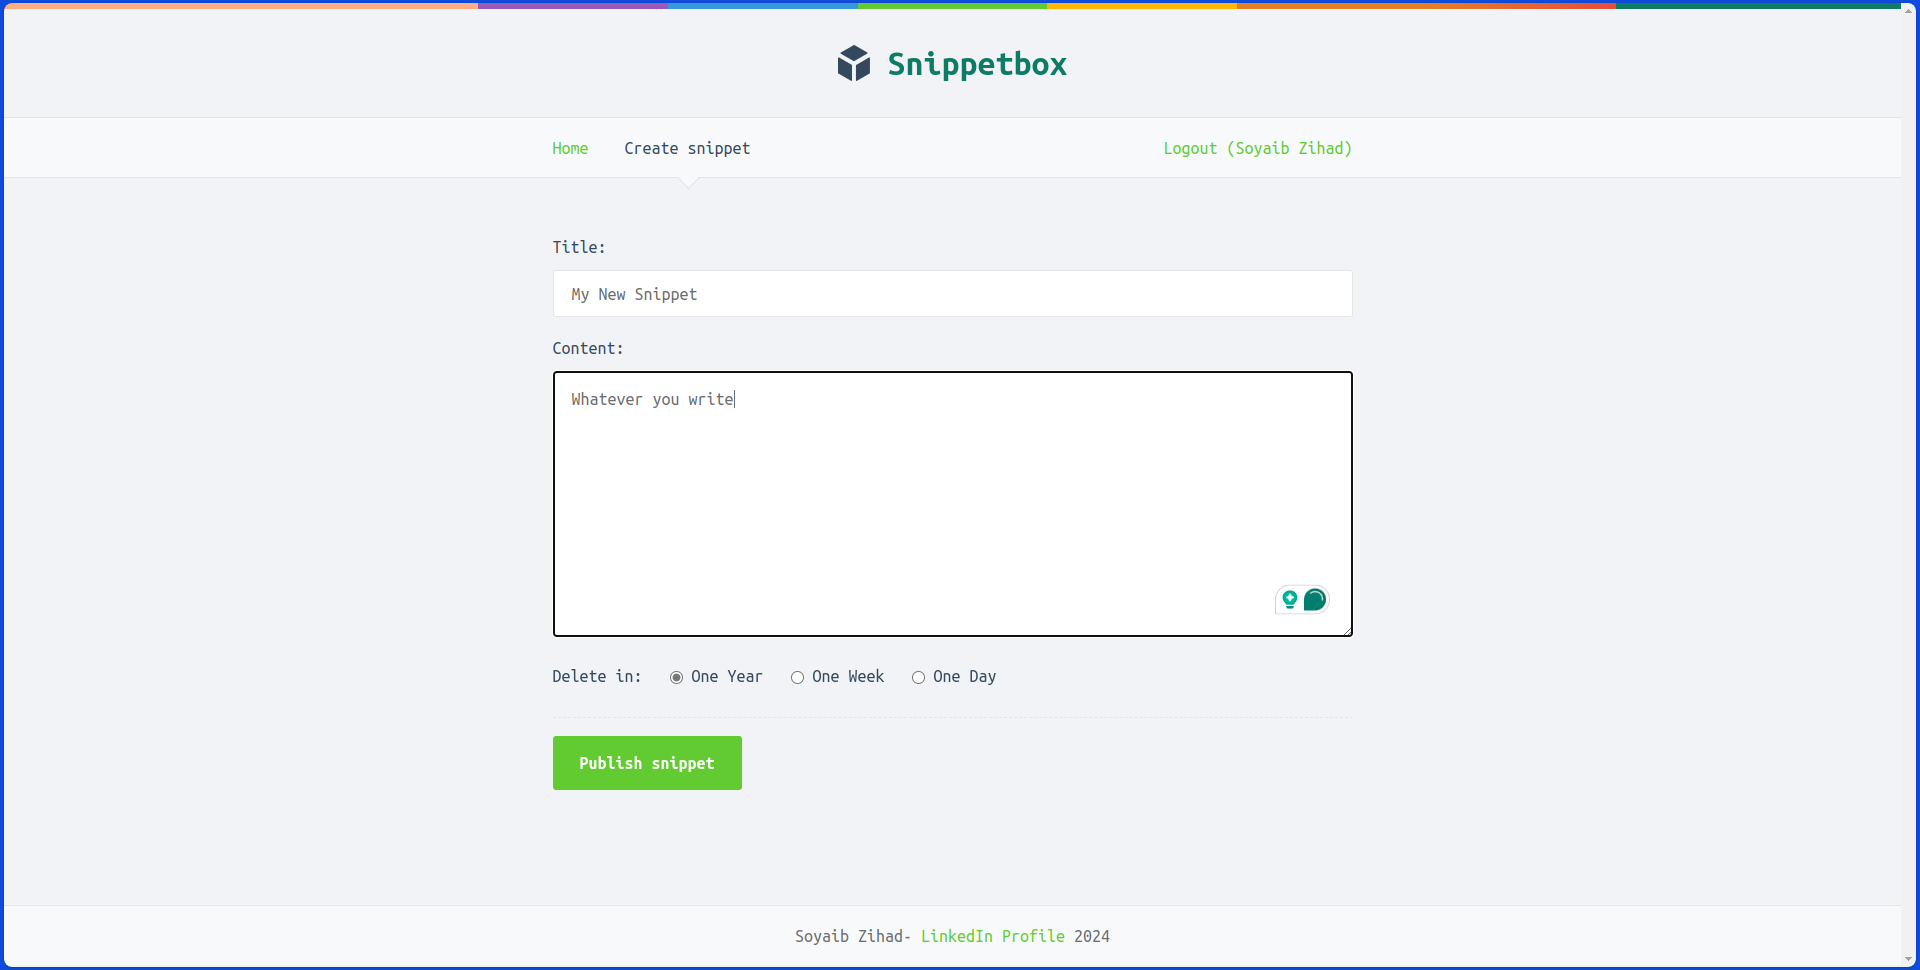
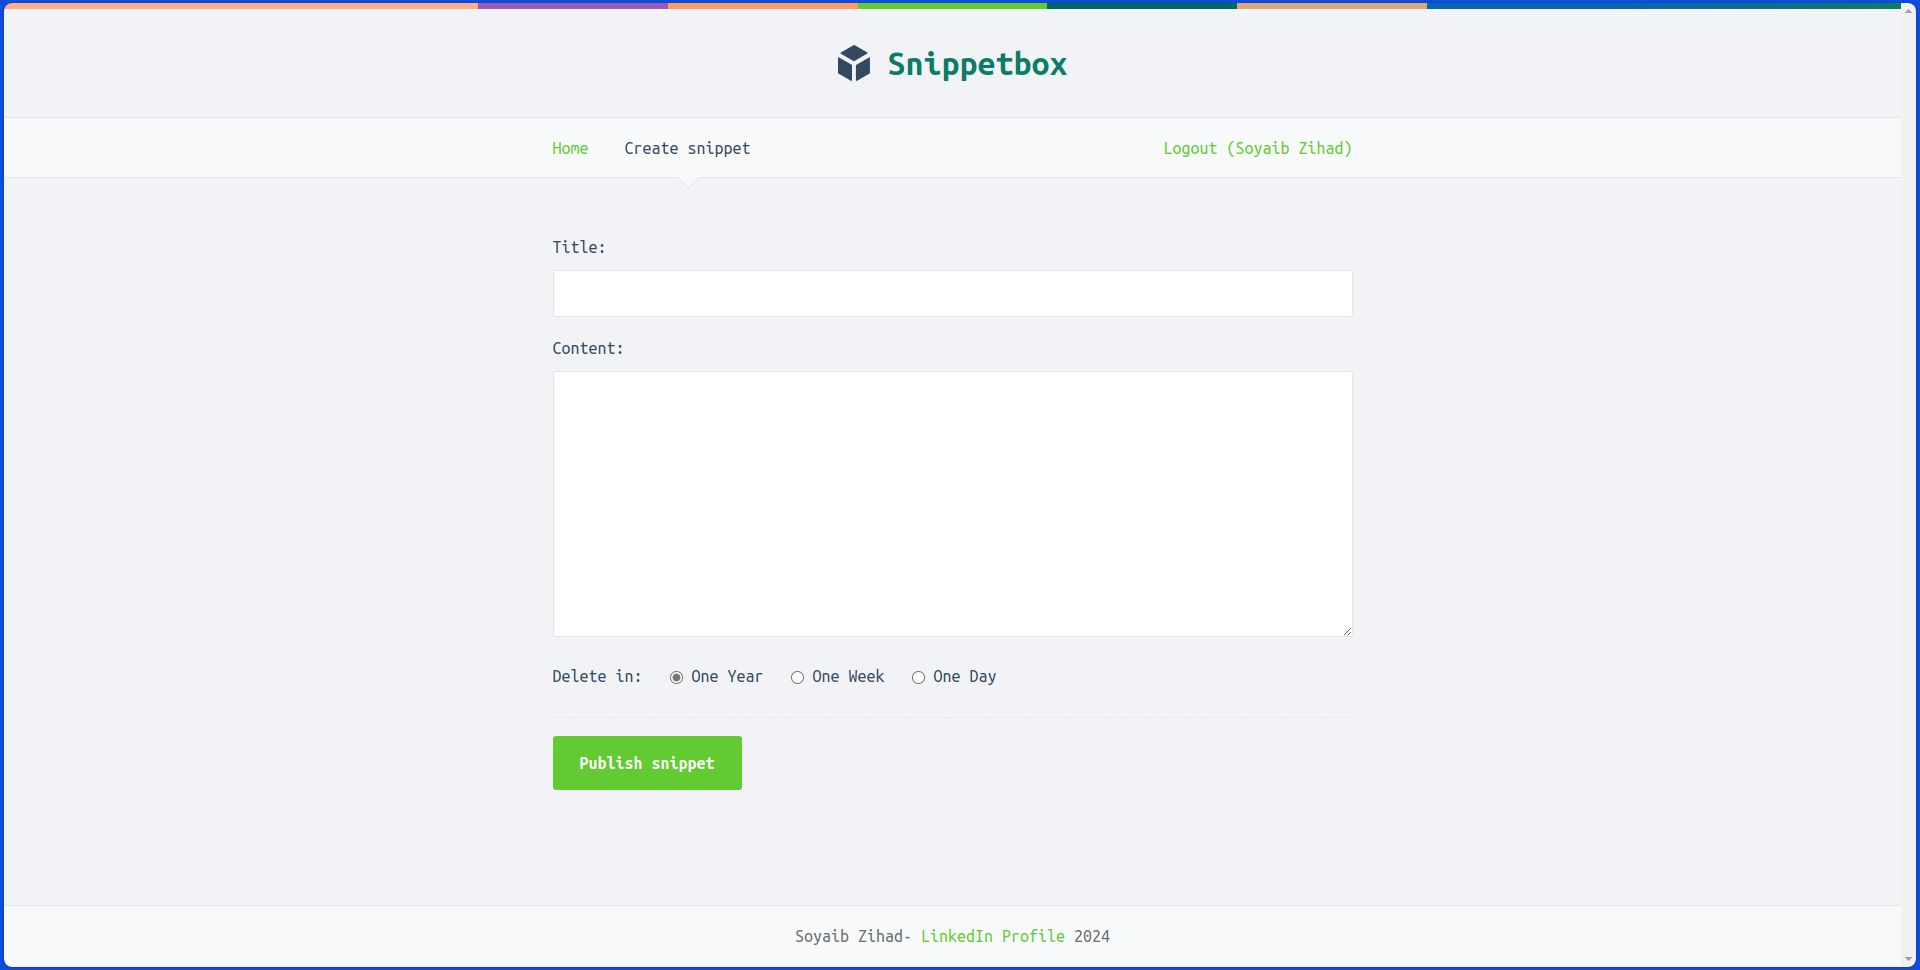
handler comments added and new screenshots uploded

diff --git a/ui/static/css/main.css b/ui/static/css/main.css
@@ -72,13 +72,21 @@ input:not([type="submit"]) {
 }
 
 header {
-    background-image: -webkit-linear-gradient(left, #FFAD84, #FFAD84 25%, #9b59b6 25%, #9b59b6 35%, #3498db 35%, #3498db 45%, #62cb31 45%, #62cb31 55%, #ffb606 55%, #ffb606 65%, #e67e22 65%, #e67e22 75%, #e74c3c 85%, #e74c3c 85%, #0D7C66 85%, #0D7C66 100%);
+/* WebKit browsers */
+background-image: -webkit-linear-gradient(left, #FFAD84, #FFAD84 25%, #9b59b6 25%, #9b59b6 35%, #FF6868 35%, #FF6868 45%, #62cb31 45%, #62cb31 55%, #006769 55%, #006769 65%, #DBA979 65%, #DBA979 75%, #0766AD 75%, #0766AD 85%, #0766AD 85%, #0D7C66 100%);
 
-    background-image: -moz-linear-gradient(left, #FFAD84, #FFAD84 25%, #9b59b6 25%, #9b59b6 35%, #3498db 35%, #3498db 45%, #62cb31 45%, #62cb31 55%, #ffb606 55%, #ffb606 65%, #e67e22 65%, #e67e22 75%, #e74c3c 85%, #e74c3c 85%, #0D7C66 85%, #0D7C66 100%);
+/* WebKit browsers */
+background-image: -webkit-linear-gradient(left, #FFAD84, #FFAD84 25%, #9b59b6 25%, #9b59b6 35%, #FD9B63 35%, #FD9B63 45%, #62cb31 45%, #62cb31 55%, #006769 55%, #006769 65%, #DBA979 65%, #DBA979 75%, #0766AD 75%, #0766AD 85%, #0766AD 85%, #0D7C66 100%);
 
-    background-image: -ms-linear-gradient(left, #FFAD84, #FFAD84 25%, #9b59b6 25%, #9b59b6 35%, #3498db 35%, #3498db 45%, #62cb31 45%, #62cb31 55%, #ffb606 55%, #ffb606 65%, #e67e22 65%, #e67e22 75%, #e74c3c 85%, #e74c3c 85%, #0D7C66 85%, #0D7C66 100%);
+/* Mozilla Firefox */
+background-image: -moz-linear-gradient(left, #FFAD84, #FFAD84 25%, #9b59b6 25%, #9b59b6 35%, #FD9B63 35%, #FD9B63 45%, #62cb31 45%, #62cb31 55%, #006769 55%, #006769 65%, #DBA979 65%, #DBA979 75%, #0766AD 75%, #0766AD 85%, #0766AD 85%, #0D7C66 100%);
 
-    background-image: linear-gradient(to right, #FFAD84, #FFAD84 25%, #9b59b6 25%, #9b59b6 35%, #3498db 35%, #3498db 45%, #62cb31 45%, #62cb31 55%, #ffb606 55%, #ffb606 65%, #e67e22 65%, #e67e22 75%, #e74c3c 85%, #e74c3c 85%, #0D7C66 85%, #0D7C66 100%);
+/* Internet Explorer */
+background-image: -ms-linear-gradient(left, #FFAD84, #FFAD84 25%, #9b59b6 25%, #9b59b6 35%, #FD9B63 35%, #FD9B63 45%, #62cb31 45%, #62cb31 55%, #006769 55%, #006769 65%, #DBA979 65%, #DBA979 75%, #0766AD 75%, #0766AD 85%, #0766AD 85%, #0D7C66 100%);
+
+/* Standard syntax */
+background-image: linear-gradient(to right, #FFAD84, #FFAD84 25%, #9b59b6 25%, #9b59b6 35%, #FD9B63 35%, #FD9B63 45%, #62cb31 45%, #62cb31 55%, #006769 55%, #006769 65%, #DBA979 65%, #DBA979 75%, #0766AD 75%, #0766AD 85%, #0766AD 85%, #0D7C66 100%);
+
 
 
     background-size: 100% 6px;

diff --git a/cmd/web/handlers.go b/cmd/web/handlers.go
@@ -85,6 +85,7 @@ func (app *application) loginUser(w http.ResponseWriter, r *http.Request) {
 	http.Redirect(w, r, "/snippet/create", http.StatusSeeOther)
 }
 
+// logoutUser logs user out of the session
 func (app *application) logoutUser(w http.ResponseWriter, r *http.Request) {
 	app.session.Remove(r, "userID")
 	app.session.Put(r, "flash", "You have been logged out successfully!")
